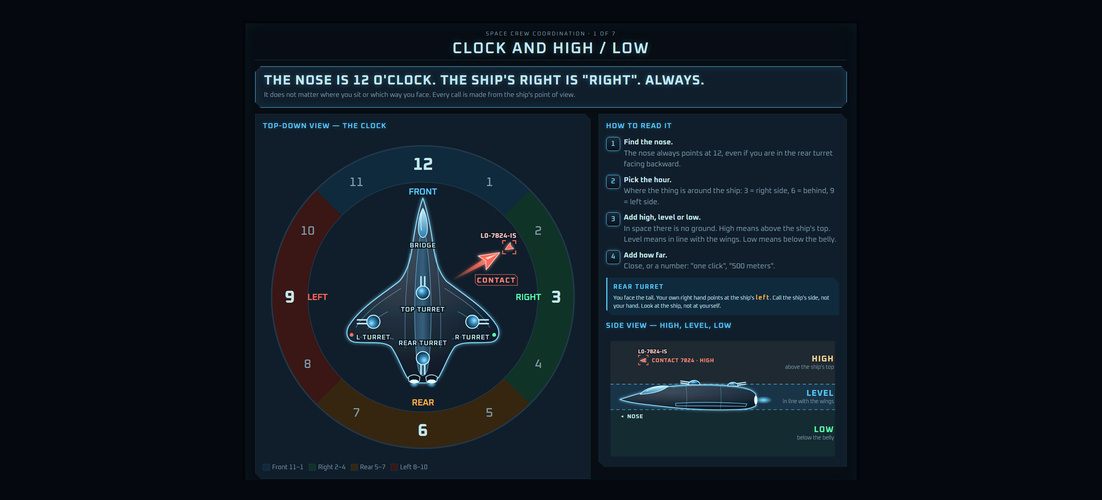
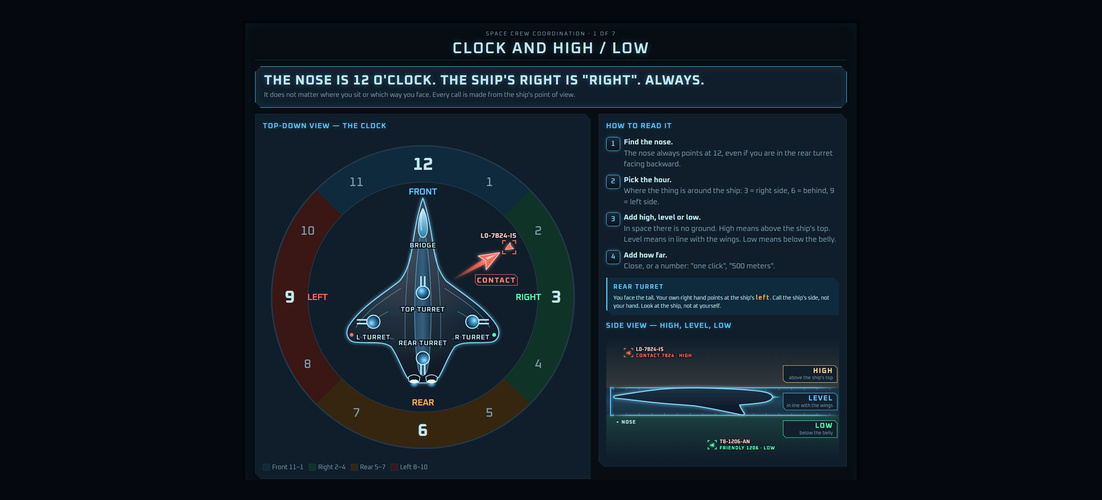
Shop: Deck + Kneeboard bundle $20.00 (new Stripe link), comparison section removed, crew card slide with slim side view; CREW CALLS page sheets 1, 2, 3, 5 updated

Changed region(s): [[0.5245, 0.69, 0.7713, 0.9]]

diff --git a/shop/index.html b/shop/index.html
@@ -8,7 +8,7 @@
 <meta name="description" content="Command Deck, Kneeboard + Builder and the Spectre Cursor Pack for Windows. Bundles available.">
 <link rel="icon" href="../favicon.ico">
 <link rel="stylesheet" href="shop.css?v=36323c45">
-<script defer src="shop.js?v=4b3c2b4d"></script>
+<script defer src="shop.js?v=6f63d228"></script>
 </head>
 <body>
 <header class="top">
@@ -77,18 +77,6 @@
       <p class="uses"><b>Uses:</b> 87 MB download, 272 MB installed, about 575 MB memory while running, under 1% CPU at idle.</p>
       <p class="ideas"><b>Got an idea?</b> Every idea is read and considered: new layouts, pages, buttons, skins or features. <a href="https://discord.gg/Rbff72pKxS" target="_blank" rel="noopener">Post it in the suggestions forum</a> on Discord. Serious suggestions only.</p>
       <p class="note">Desktop: Windows 10 or 11, 64-bit. Use the game in borderless windowed mode. XENEON EDGE version: coming soon. It needs the free <a href="link/">Command Deck EDGE Link</a> program, ready to download now.</p>
-      <details class="compare" open>
-        <summary>Why not a Stream Deck or GameGlass?</summary>
-        <p>A Stream Deck needs its own button device on your desk. GameGlass panels run on a second device - a phone or tablet - connected to your PC over Wi-Fi. The Command Deck runs right on your PC's screen, touch screen or XENEON EDGE, ready to fly.</p>
-        <table>
-          <thead><tr><th></th><th>Command Deck</th><th>Stream Deck</th><th>GameGlass</th></tr></thead>
-          <tbody>
-            <tr><th>Extra device</th><td>None - any screen, touch screen or XENEON EDGE</td><td>Needs the Stream Deck device</td><td>Needs a phone or tablet on the same Wi-Fi</td></tr>
-            <tr><th>Price</th><td>One payment, desktop and EDGE versions</td><td>Device purchase</td><td>Free app; some panels free, others bought one by one or by subscription</td></tr>
-          </tbody>
-        </table>
-        <p class="note">Stream Deck is a trademark of Elgato (Corsair). GameGlass is a trademark of its owner. CMDGLAS is not affiliated with either.</p>
-      </details>
       <a class="buy" data-buy="deck" href="#">Buy Command Deck</a>
     </div>
   </article>
@@ -178,7 +166,7 @@
     <h2 id="bundles-title">Bundles</h2>
     <div class="bundle" id="bundle">
       <h3>Deck + Kneeboard</h3>
-      <p class="price" data-price="bundle">$24.99</p>
+      <p class="price" data-price="bundle">$20.00</p>
       <p>Command Deck (desktop and EDGE) and Kneeboard + Builder.</p>
       <a class="buy" data-buy="bundle" href="#">Buy Deck + Kneeboard</a>
     </div>

diff --git a/crew-card/index.html b/crew-card/index.html
@@ -33,11 +33,11 @@
   <a href="#s1">1 Clock</a><a href="#s2">2 Contacts</a><a href="#s3">3 Code words</a><a href="#s4">4 Scan sectors</a><a href="#s5">5 Turns</a><a href="#s6">6 Clearance</a><a href="#s7">7 Movement</a>
 </nav>
 <main>
-  <figure id="s1"><img src="crew-1.png" width="1600" height="1190" alt="Sheet 1 of 7: the clock and high, level, low measured from the ship"><figcaption>1 of 7 · Clock and high / level / low</figcaption></figure>
-  <figure id="s2"><img src="crew-2.png" width="1600" height="622" loading="lazy" alt="Sheet 2 of 7: calling contacts - type, ID number, clock, high level or low, how far"><figcaption>2 of 7 · Calling contacts</figcaption></figure>
+  <figure id="s1"><img src="crew-1.png" width="1600" height="1191" alt="Sheet 1 of 7: the clock with a contact at 2 o'clock, and a side view of the ship showing high, level and low measured from the ship"><figcaption>1 of 7 · Clock and high / level / low</figcaption></figure>
+  <figure id="s2"><img src="crew-2.png" width="1600" height="651" loading="lazy" alt="Sheet 2 of 7: calling contacts - type, the four ID digits, clock, high level or low, how far"><figcaption>2 of 7 · Calling contacts</figcaption></figure>
   <figure id="s3"><img src="crew-3.png" width="1600" height="864" loading="lazy" alt="Sheet 3 of 7: code words and example fight and docking calls"><figcaption>3 of 7 · Code words and fight calls</figcaption></figure>
   <figure id="s4"><img src="crew-4.png" width="1600" height="1131" loading="lazy" alt="Sheet 4 of 7: scan sectors - who watches where"><figcaption>4 of 7 · Scan sectors</figcaption></figure>
-  <figure id="s5"><img src="crew-5.png" width="1600" height="1090" loading="lazy" alt="Sheet 5 of 7: turn callouts - clear the nose and the tail"><figcaption>5 of 7 · Turn callouts</figcaption></figure>
+  <figure id="s5"><img src="crew-5.png" width="1600" height="1455" loading="lazy" alt="Sheet 5 of 7: turn callouts - clear the nose and the tail, and the on-screen compass heading"><figcaption>5 of 7 · Turn callouts</figcaption></figure>
   <figure id="s6"><img src="crew-6.png" width="1600" height="950" loading="lazy" alt="Sheet 6 of 7: clearance calls"><figcaption>6 of 7 · Clearance calls</figcaption></figure>
   <figure id="s7"><img src="crew-7.png" width="1600" height="902" loading="lazy" alt="Sheet 7 of 7: movement calls"><figcaption>7 of 7 · Movement calls</figcaption></figure>
 </main>

diff --git a/shop/shop.js b/shop/shop.js
@@ -3,7 +3,7 @@ const CHECKOUT = {
   deck: 'https://buy.stripe.com/9B63cvaED7c3cbLchtgQE00',
   kneeboard: 'https://buy.stripe.com/6oUfZh9Az2VN0t35T5gQE01',
   cursors: 'https://buy.stripe.com/aFa4gzcMLdAr2Bb95hgQE06',   // $1.99 (was $6.99 link 00w6oHh312VN1x72GTgQE02)
-  bundle: 'https://buy.stripe.com/4gM6oH3cbeEvejTchtgQE03',
+  bundle: 'https://buy.stripe.com/fZu14ncMLdArb7H81dgQE08',   // $20.00 (was $24.99 link 4gM6oH3cbeEvejTchtgQE03)
   all: 'https://buy.stripe.com/8x2cN59Az1RJejTgxJgQE07',   // $25.00 (was $29.99 link 5kQ00j3cbeEva3D3KXgQE04)
   petals: 'https://buy.stripe.com/3cIdR99Az7c3b7H6X9gQE05',   // Speech Petal $2.99, not in any bundle
 };
